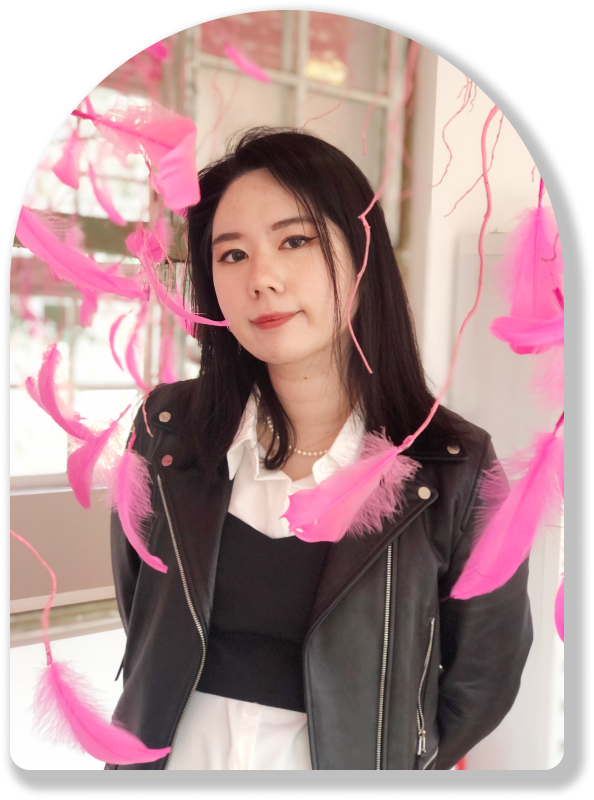
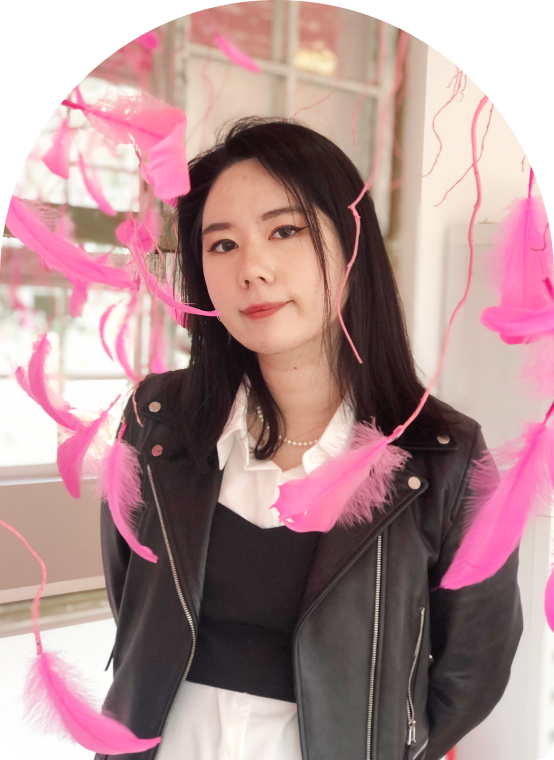
main finish

diff --git a/src/App.js b/src/App.js
@@ -43,12 +43,12 @@ function App() {
                 </div>
                 <div className='categori'>
                     <ul>
-                      <li style={pinktextBold}><button><img src={profileIcon} className='icon01'/>Profile</button></li>
-                      <li style={pinktextBold}><button><img src={github} className='icon02'/>Publishing</button></li>
-                      <li style={pinktextBold}><button><img src={window} className='icon03'/>Web / Landing</button></li>
-                      <li style={pinktextBold}><button><img src={grid} className='icon04'/>Graphic</button></li>
-                      <li style={pinktextBold}><button><img src={social} className='icon05'/>Social</button></li>
-                      <li style={pinktextBold}><button><img src={youtube} className='icon06'/>Youtube</button></li>
+                      <li><button style={pinktextBold}><img src={profileIcon} className='icon01'/>Profile</button></li>
+                      <li><button style={pinktextBold}><img src={github} className='icon02'/>Publishing</button></li>
+                      <li><button style={pinktextBold}><img src={window} className='icon03'/>Web / Landing</button></li>
+                      <li><button style={pinktextBold}><img src={grid} className='icon04'/>Graphic</button></li>
+                      <li><button style={pinktextBold}><img src={social} className='icon05'/>Social</button></li>
+                      <li><button style={pinktextBold}><img src={youtube} className='icon06'/>Youtube</button></li>
                     </ul>
                 </div>
             </div>

diff --git a/src/App.css b/src/App.css
@@ -25,10 +25,10 @@ ul{
 
 .profile-wrap{
   background: #121212 url(../src/images/mask.svg) no-repeat;
+  background-size: cover;
 }
 
 .profile-wrap .profile{
-  border: 2px solid red;
   width: 60%;
   height: 100%;
   margin: auto;
@@ -40,6 +40,11 @@ ul{
   justify-content: space-between;
   align-items: center;
   width: 100%;
+}
+
+.profile-wrap .profile .intro-wrap img{
+  width: 554px;
+  height: 760px;
 }
 
 .profile-wrap .profile .intro-wrap .intro-text h1, h2{
@@ -70,31 +75,37 @@ ul{
 .profile-wrap .profile .intro-wrap .intro-text .introduce{
   font-size: 15px;
   color: #fff;
-  line-height: 20px;
+  line-height: 25px;
 }
 
 /* 카테고리 버튼영역 */
 .profile-wrap .profile .categori{
   width: 100%;
   height: 100%;
-  background: #0ff; 
+  margin-top: 100px;
 }
 
 .profile-wrap .profile .categori ul{
   display: flex;
   justify-content: space-between;
+  
 }
 
-.profile-wrap .profile .categori ul li{
-  display: flex;
-  align-items: center;
-  justify-content: center;
-  flex-direction: column;
-  background: #fff;
-  width: 184px;
-  height: 230px;
+
+.profile-wrap .profile .categori ul li button{
+  width: 180px;
+  height: 220px;
   border-radius: 20px;
+  border: none;
+  background: #fff;
+  box-shadow: 3px 3px 3px 3px rgba(0, 0, 0, 0.3);
+  display: flex;
+  justify-content: center;
+  align-items: center;
+  flex-direction: column;
   font-size: 18px;
+  line-height: 45px;
+  cursor: pointer;
 }
 
 
